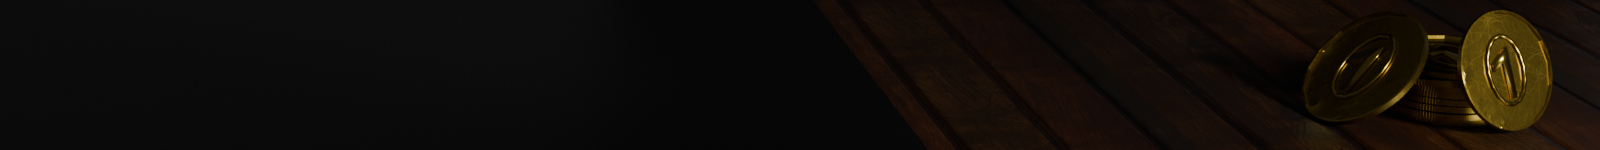
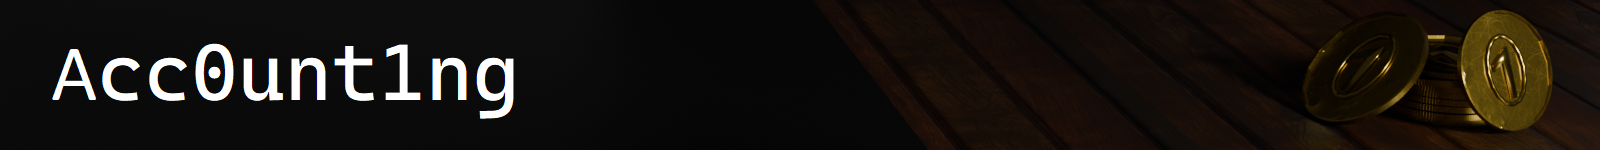
Fixed currency plot overflow bug

Changed region(s): [[0.0312, 0.2933, 0.3438, 0.8]]

diff --git a/api/static/styles.css b/api/static/styles.css
@@ -24,15 +24,21 @@ h1 {
   color: white;
 }
 
+header {
+  height: 100%;
+  line-height: 0;
+  width: auto;
+}
+
 h3 {
   margin-left: 16px;
 }
 
-.header {
-  background-image: url('img/Banner.png');
-  background-size: cover;
-  background-position: center;
-  height: 100px;
+.banner {
+  width: 100%;
+  height: auto;
+  display: block;
+  display: block;
 }
 
 nav {

diff --git a/api/templates/base.html b/api/templates/base.html
@@ -9,8 +9,8 @@
 </head>
 
 <body>
-  <header class="header">
-    <h1>Acc0unt1ng</h1>
+  <header>
+    <img class="banner" src="{{ url_for('static', filename='img/Banner.png') }}" alt="Banner" />
   </header>
   <nav>
     <button class="nav_button {% if request.path == '/add/expense' %}disabled{% endif %}"

diff --git a/api/api_run.py b/api/api_run.py
@@ -8,6 +8,8 @@ from flask import (
 )
 import base64
 import io
+import matplotlib
+matplotlib.use("Agg") 
 import matplotlib.pyplot as plt
 from db_scripts.script import *
 from db_scripts.consts import *
@@ -15,21 +17,37 @@ from db_scripts.consts import *
 
 app = Flask(__name__)
 
-
 def plot_to_img_tag(df):
-    plt.figure(figsize=(10, 5))
+    plt.clf()
+    
+    plt.figure(figsize=(12, 6))
+    
     # Plot each currency's rate over time
     for currency in df.columns[1:]:  # Skip the 'date' column
         plt.plot(df["date"], df[currency], marker="o", label=currency)
+    
     plt.title("Currency Rates Over Time")
     plt.xlabel("Date")
     plt.ylabel("Rate")
     plt.legend()
     plt.grid(True)
+    
+    # Rotate and align the tick labels so they look better
+    plt.xticks(rotation=45, ha='right')
+    
+    # Use automatic layout adjustment to prevent label overlap
+    plt.tight_layout()
+    
+    # If still too crowded, show fewer x-axis ticks
+    if len(df) > 20:
+        # Show approximately 15 evenly spaced ticks
+        plt.gca().xaxis.set_major_locator(plt.MaxNLocator(15))
+    
     # Save plot to a BytesIO object
     img = io.BytesIO()
-    plt.savefig(img, format="png")
+    plt.savefig(img, format="png", bbox_inches='tight')
     img.seek(0)
+    
     # Encode image to base64 string
     img_tag = base64.b64encode(img.getvalue()).decode()
     plt.close()
@@ -888,4 +906,5 @@ Possible values:
 
 
 def api_start():
+    app.config['SEND_FILE_MAX_AGE_DEFAULT'] = 3600
     app.run(debug=True)
